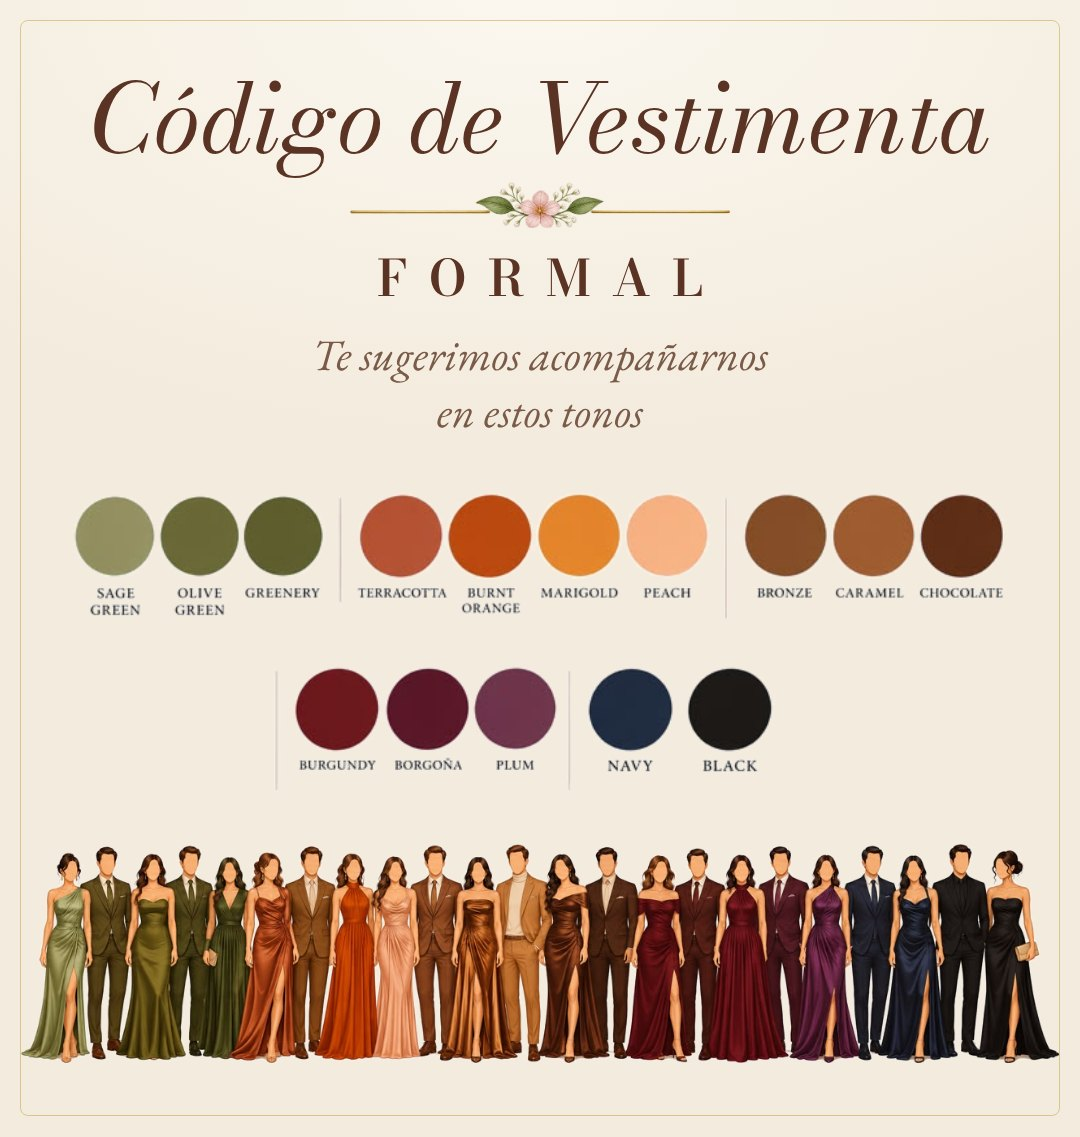
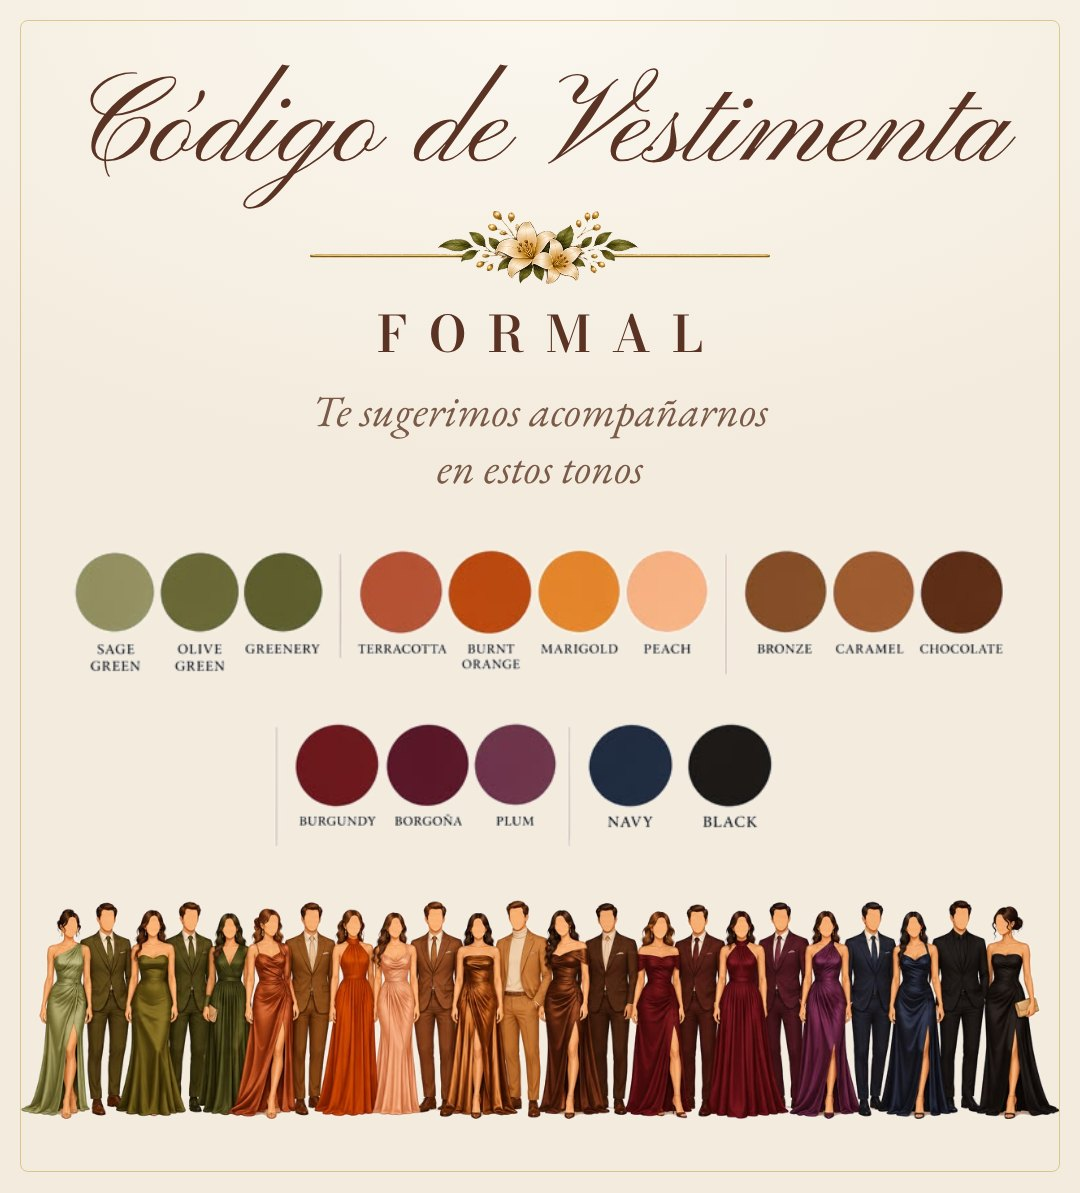
Add files via upload

diff --git a/index.html b/index.html
@@ -23,9 +23,9 @@
     <link rel="preconnect" href="https://fonts.googleapis.com">
     <link rel="preconnect" href="https://fonts.gstatic.com" crossorigin>
     <link rel="preconnect" href="https://www.google.com">
-    <link href="https://fonts.googleapis.com/css2?family=Great+Vibes&family=Bodoni+Moda:ital,opsz,wght@0,6..96,400..700;1,6..96,400..600&family=EB+Garamond:ital,wght@0,400..600;1,400..500&family=Cormorant+Garamond:ital,wght@0,400;0,600;1,400&display=swap" rel="stylesheet">
-    <link rel="stylesheet" href="CCSB.css?v=10">
-    <link rel="stylesheet" href="regalo-modal.css?v=3">
+    <link href="https://fonts.googleapis.com/css2?family=Great+Vibes&family=Pinyon+Script&family=Bodoni+Moda:ital,opsz,wght@0,6..96,400..700;1,6..96,400..600&family=EB+Garamond:ital,wght@0,400..600;1,400..500&family=Cormorant+Garamond:ital,wght@0,400;0,600;1,400&display=swap" rel="stylesheet">
+    <link rel="stylesheet" href="CCSB.css?v=11">
+    <link rel="stylesheet" href="regalo-modal.css?v=4">
         <style>
         /* Carrusel: 3 imágenes simultáneamente con foto central destacada */
         .carousel-track-container {
@@ -597,7 +597,7 @@
                             <img src="iconos/sobre.webp" alt="Notas" class="theme-icon-img tips-img">
                         </div>
                         <h3>Una noche solo para adultos</h3>
-                        <p class="party-quote">“Amamos a sus pequeños, pero esta noche es para que papá y mamá bailen sin horario… y sin escuchar <em>‘mami, tengo sueño’</em> 😉”</p>
+                        <p class="party-quote">Con cariño, les pedimos que los pequeños se queden en casa.</p>
                         <p class="party-thanks">¡Gracias por su comprensión!</p>
                     </div>
                 </div>
@@ -679,6 +679,6 @@
         })();
         </script>
         <script src="JAVAB.js?v=22" defer></script>
-        <script src="regalo-modal.js?v=3" defer></script>
+        <script src="regalo-modal.js?v=4" defer></script>
 </body>
 </html>

diff --git a/CCSB.css b/CCSB.css
@@ -2100,7 +2100,7 @@ html, body { background-color: #F3EBDD; }
     width: 240px;
     height: 30px;
     margin: 0.5rem auto 0;
-    background: center / contain no-repeat url("iconos/separador-titulo.webp");
+    background: center / contain no-repeat url("iconos/separador-titulo.webp?v=2");
 }
 @media (max-width: 480px) {
     .section-title::after,
@@ -2421,3 +2421,28 @@ body { font-family: 'EB Garamond', Georgia, serif; font-size: 1.15rem; }
 @media (max-width: 768px) { .top-garland { width: 100% !important; top: -48px !important; } }
 /* Sin guirnalda superior en la portada */
 .top-garland { display: none !important; }
+/* Títulos en caligrafía elegante */
+.section-title,
+.event-title,
+.party-card h3,
+.footer-content h3,
+.modal-title-dark {
+    font-family: 'Pinyon Script', 'Great Vibes', cursive !important;
+    font-style: normal !important;
+    font-weight: 400 !important;
+    letter-spacing: 0 !important;
+    line-height: 1.15 !important;
+}
+.section-title { font-size: clamp(2.9rem, 8vw, 4rem) !important; }
+.event-title { font-size: 2.9rem !important; }
+.party-card h3 { font-size: 2.1rem !important; }
+.footer-content h3 { font-size: clamp(2rem, 7vw, 2.8rem) !important; }
+.modal-title-dark { font-size: 2.2rem !important; }
+.section-title::after,
+.content > section:nth-of-type(even) .section-title::after {
+    width: 300px !important; height: 52px !important; margin-top: 0.2rem !important;
+}
+@media (max-width: 480px) {
+    .section-title::after,
+    .content > section:nth-of-type(even) .section-title::after { width: 250px !important; height: 44px !important; }
+}

diff --git a/regalo-modal.js b/regalo-modal.js
@@ -153,8 +153,8 @@
     window.closeGiftModal = closeGiftModal;
     window.showGifts = openGiftModal; // compatibilidad con onclick="showGifts()"
     /* ----- Código de vestimenta (imagen flotante) ----- */
-    const DRESS_IMG = 'codigo-vestimenta.jpg?v=3';
-    const DRESS_IMG_MOVIL = 'codigo-vestimenta-movil.jpg?v=3';
+    const DRESS_IMG = 'codigo-vestimenta.jpg?v=4';
+    const DRESS_IMG_MOVIL = 'codigo-vestimenta-movil.jpg?v=4';
 
     function buildDress() {
         if (document.getElementById('rgDressOverlay')) return;

diff --git a/regalo-modal.css b/regalo-modal.css
@@ -202,3 +202,4 @@
 .rg-title { font-family: 'Bodoni Moda', Georgia, serif !important; font-style: italic; font-weight: 400; font-size: 2.2rem !important; }
 .rg-sheet { font-family: 'EB Garamond', Georgia, serif; }
 .rg-holder-name, .rg-option-text strong, .rg-value { font-family: 'Bodoni Moda', Georgia, serif !important; }
+.rg-title { font-family: 'Pinyon Script', cursive !important; font-style: normal !important; font-size: 2.8rem !important; }
